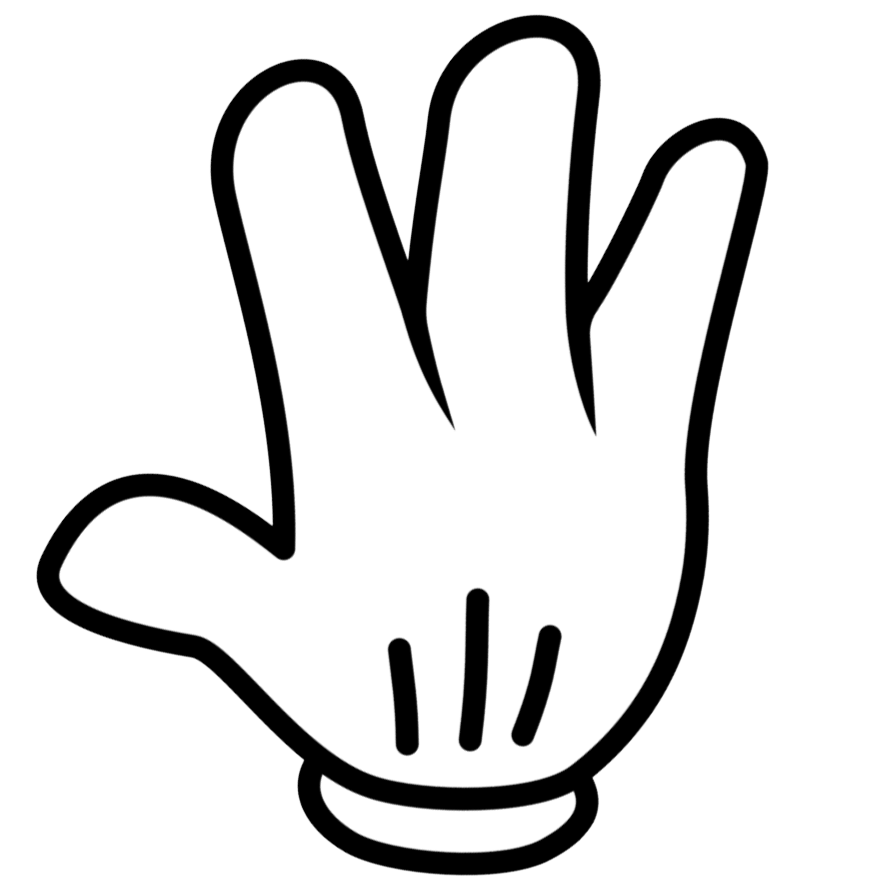
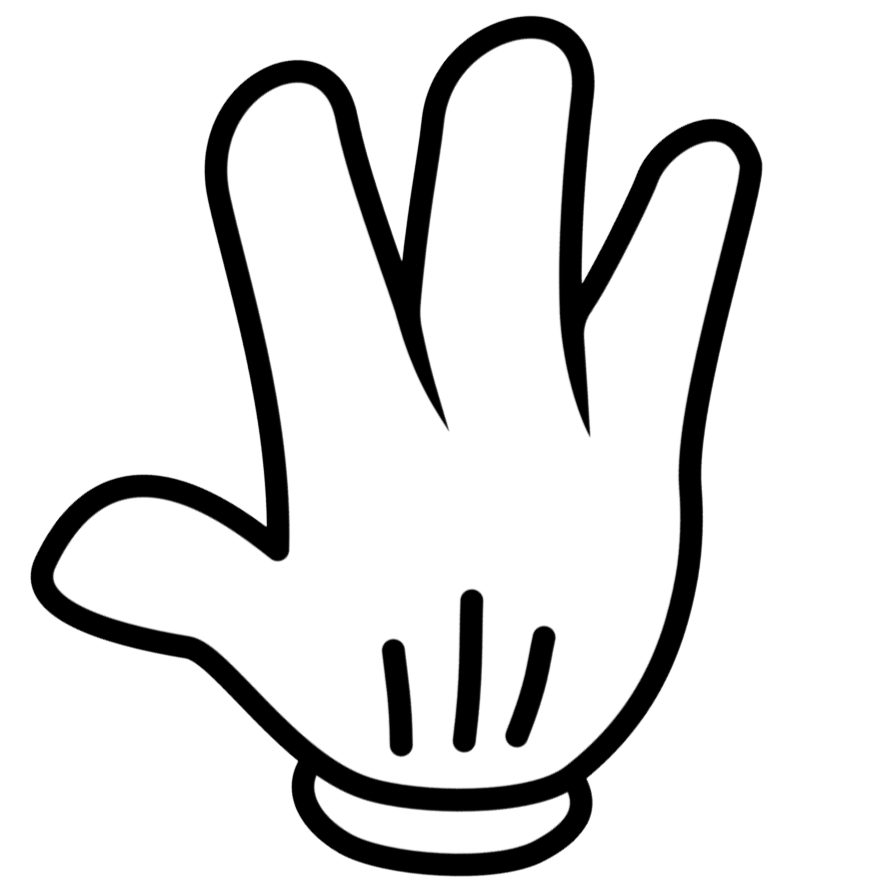
EDIT - images & animation

Changed region(s): [[0.5784, 0.0, 0.8828, 0.9741], [0.1522, 0.0304, 0.5784, 0.6392], [0.0304, 0.5479, 0.6392, 1.0]]

diff --git a/dist/main.js b/dist/main.js
@@ -46,14 +46,14 @@
             userChoiceImage.src = `${imgDirectory}rock.png`;
             pcChoiceImage.src = `${imgDirectory}rock.png`;
             const userHandShaking = [
-                { rotate: '-90deg' },
-                { rotate: '-60deg' },
-                { rotate: '-90deg' },
+                { transform: 'rotate(-90deg) scaleX(-1)' },
+                { transform: 'rotate(-60deg) scaleX(-1)' },
+                { transform: 'rotate(-90deg) scaleX(-1)' },
             ];
             const pcHandShaking = [
-                { rotate: '90deg' },
-                { rotate: '60deg' },
-                { rotate: '90deg' },
+                { transform: 'rotate(90deg)' },
+                { transform: 'rotate(60deg)' },
+                { transform: 'rotate(90deg)' },
             ];
             const shakeTiming = {
                 duration: 500,

diff --git a/src/app.ts b/src/app.ts
@@ -64,15 +64,15 @@ function startGame(): void {
         pcChoiceImage.src = `${imgDirectory}rock.png`;
 
         const userHandShaking = [
-            { rotate: '-90deg' },
-            { rotate: '-60deg' },
-            { rotate: '-90deg' },
+            { transform: 'rotate(-90deg) scaleX(-1)' },
+            { transform: 'rotate(-60deg) scaleX(-1)' },
+            { transform: 'rotate(-90deg) scaleX(-1)' },
         ];
 
         const pcHandShaking = [
-            { rotate: '90deg' },
-            { rotate: '60deg' },
-            { rotate: '90deg' },
+            { transform: 'rotate(90deg)' },
+            { transform: 'rotate(60deg)' },
+            { transform: 'rotate(90deg)' },
         ];
 
         const shakeTiming: KeyframeAnimationOptions = {

diff --git a/dist/style.css b/dist/style.css
@@ -54,14 +54,22 @@ button {
     .pc-hand {
 
         img {
-            rotate: 90deg;
+            /* rotate: 90deg; */
+
+            transform: rotate(90deg);
+            transform-origin: center bottom;
+
+            translate: -50% -50%;
         }
     }
 
     .user-hand {
 
         img {
-            rotate: -90deg;
+            transform: rotate(-90deg) scaleX(-1);
+            transform-origin: center bottom;
+
+            translate: 50% -50%;
         }
     }
 
